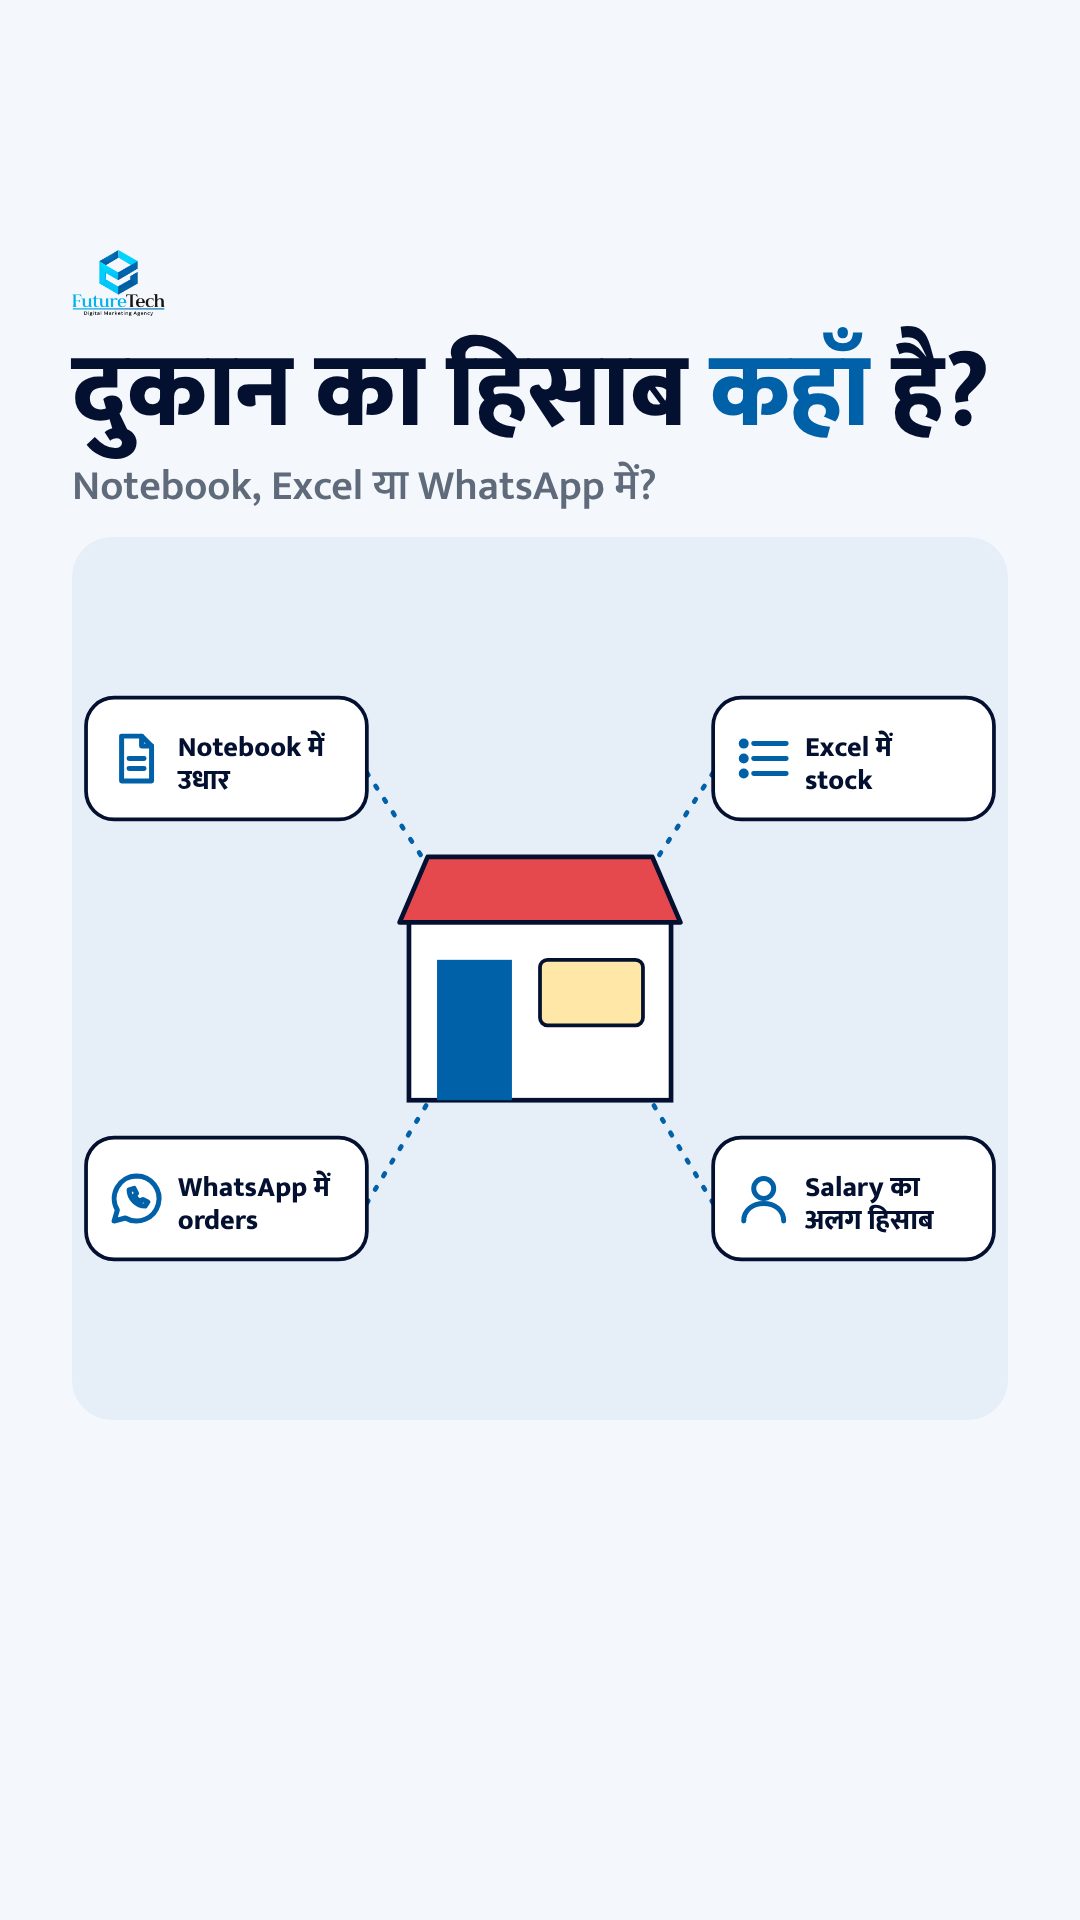
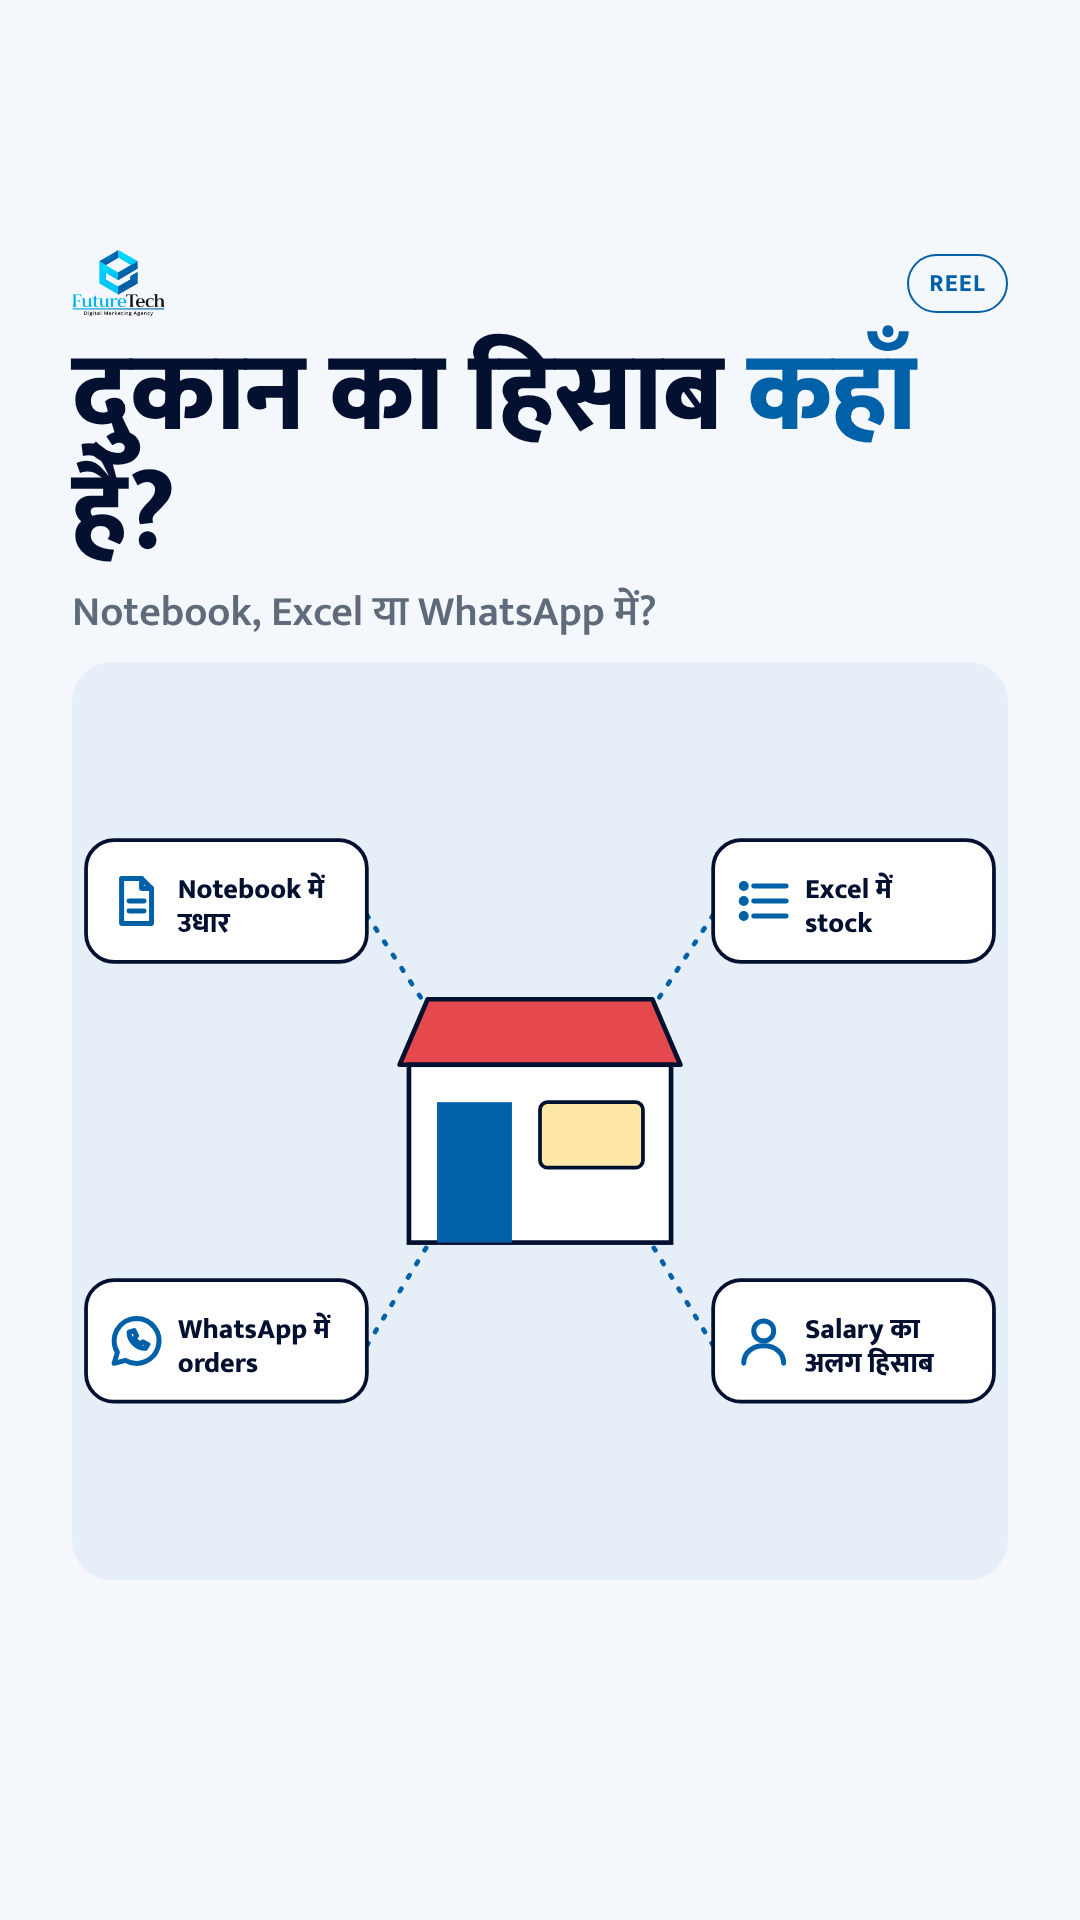
Reel 5: add app-screen demo scene, scene fades, longer end hold, CUTS override in reel builder
Claude-Session: https://claude.ai/code/session_016LhnTTDq2p1NVPthft6u7V

Changed region(s): [[0.0611, 0.125, 0.9472, 0.75]]

diff --git a/tools/engine/content-reels.js b/tools/engine/content-reels.js
@@ -34,6 +34,7 @@ module.exports = {
     { line: 'Orders और supplier की बातें WhatsApp में — चैट में दब जाती हैं।', slide: { chip: 'WhatsApp', h: 'Orders और supplier <span class="blue">चैट</span> में', art: A.phoneSide(A.chat([['in', 'Bhaiya 10 packet bhej do'], ['out', 'Ji kal tak'], ['in', 'Pichla payment kab dena hai?']]), [{ icon: 'search', t: 'चैट में ढूँढना' }, { icon: 'bell', t: 'Payment याद नहीं' }, { icon: 'clock', t: 'समय बर्बाद' }]) } },
     { line: 'किसका कितना लेना है, किसे कितना देना है — ढूँढने में समय जाता है।', slide: { chip: 'सवाल', h: 'ये सवाल <span class="blue">आसान</span> हैं?', art: A.scorecard(['किसका कितना लेना है?', 'किसे कितना देना है?', 'कौन सा stock कम है?', 'इस महीने की salary कितनी?'], { mark: '?' }) } },
     { line: 'ये सब एक जगह हो सकता है: उधार, stock, supplier payment और salary।', slide: { chip: 'एक जगह', h: 'ये सब <span class="blue">एक जगह</span>', art: A.hubRing('दुकान का', 'Manager', [{ icon: 'doc', l: 'उधार', l2: 'खाता' }, { icon: 'store', l: 'Stock और', l2: 'expiry' }, { icon: 'money', l: 'Supplier', l2: 'payment' }, { icon: 'user', l: 'Salary', l2: 'हिसाब' }, { icon: 'doc', l: 'Bill /', l2: 'Invoice' }, { icon: 'users', l: 'Customer', l2: 'list' }, { icon: 'bell', l: 'Payment', l2: 'reminder' }, { icon: 'trend', l: 'Reports' }]), raw: true } },
+    { line: 'देखिए... उधार, stock, supplier का payment और salary — सब एक ही screen पर। कौन कितना बाकी है, एक नज़र में।', slide: { chip: 'Demo', h: 'सब एक ही <span class="blue">screen</span> पर', art: A.phoneSide(`<div style="font-family:Mukta;font-weight:800;font-size:30px;color:#0060A8;margin-bottom:10px">दुकान Manager</div>${[['उधार बाकी','#FFE7A8'],['Stock कम','#BFE3F7'],['Supplier payment','#CFE7D8'],['Salary (इस महीने)','#F9D0CF']].map(([t,c])=>`<div style="display:flex;align-items:center;gap:12px;background:#F4F7FB;border-radius:14px;padding:12px 14px;margin-bottom:10px"><span style="width:38px;height:38px;border-radius:10px;background:${c};display:block"></span><span style="font-family:Mukta;font-weight:700;font-size:24px">${t}</span><span style="margin-left:auto;width:70px;height:14px;border-radius:7px;background:#DDE3EC;display:block"></span></div>`).join('')}<div style="margin-top:6px;background:#22C55E;color:#fff;font-weight:700;text-align:center;border-radius:30px;padding:10px;font-size:22px">WhatsApp reminder</div>`, [{ icon: 'doc', t: 'एक नज़र में बाकी' }, { icon: 'bell', t: 'Reminder अपने आप' }, { icon: 'trend', t: 'महीने की report' }]) } },
     { line: 'अपनी दुकान का हिसाब एक जगह लाना है? FutureTech को WhatsApp कीजिए।', end: true },
   ] },
   'reel-4': { code: 'IG-R04', ask: 'Namaste, mujhe ads ka sahi plan chahiye', file: 'Reel_Landing_Page_ya_WhatsApp', scenes: [

diff --git a/tools/engine/reel.js b/tools/engine/reel.js
@@ -23,13 +23,14 @@ const subPage = text => `<!doctype html><html><head><meta charset="utf-8">${L.FO
     const err = require('child_process').spawnSync('ffmpeg', ['-hide_banner', '-i', voice, '-af', 'silencedetect=n=-38dB:d=0.22', '-f', 'null', '-'], { encoding: 'utf8' }).stderr; while ((m = re.exec(err))) sil.push([+m[1], +m[2]]);
     const len = R.scenes.map(s => s.line.length); const sum = len.reduce((a, b) => a + b, 0); const used = new Set(); let acc = 0; const cuts = [];
     for (let i = 0; i < n - 1; i++) { acc += len[i]; const want = total * acc / sum; let best = -1; sil.forEach((g, k) => { if (used.has(k)) return; if (best < 0 || Math.abs((g[0] + g[1]) / 2 - want) < Math.abs((sil[best][0] + sil[best][1]) / 2 - want)) best = k; }); if (best >= 0) { used.add(best); cuts.push((sil[best][0] + sil[best][1]) / 2); } else cuts.push(want); }
-    cuts.sort((a, b) => a - b); const b = [0, ...cuts, total + 1.6]; dur = b.slice(1).map((x, i) => +(x - b[i]).toFixed(2));
+    if (process.env.CUTS) { cuts.length = 0; process.env.CUTS.split(',').map(Number).forEach(x => cuts.push(x)); }
+    cuts.sort((a, b) => a - b); const b = [0, ...cuts, total + 2.6]; dur = b.slice(1).map((x, i) => +(x - b[i]).toFixed(2));
   } else dur = R.scenes.map((s, i) => +Math.max(2.8, s.line.length / 11 + 0.9).toFixed(2));
   // 3) clips
   const FPS = 30; const clips = [];
   for (let i = 0; i < n; i++) {
     const d = dur[i], N = Math.ceil(d * FPS), clip = tmp + `c${i}.mp4`;
-    execFileSync('ffmpeg', ['-v', 'error', '-y', '-loop', '1', '-t', String(d), '-i', tmp + `s${i}.png`, '-loop', '1', '-t', String(d), '-i', tmp + `t${i}.png`, '-filter_complex', `[0:v]scale=2160:3840,zoompan=z='1+0.035*on/${N}':x='iw/2-(iw/zoom/2)':y='ih/2-(ih/zoom/2)':d=${N}:s=1080x1920:fps=${FPS},fade=t=in:st=0:d=0.25[a];[a][1:v]overlay=0:0:shortest=1,format=yuv420p[v]`, '-map', '[v]', '-r', String(FPS), '-c:v', 'libx264', '-preset', 'medium', '-crf', '18', '-t', String(d), clip]);
+    execFileSync('ffmpeg', ['-v', 'error', '-y', '-loop', '1', '-t', String(d), '-i', tmp + `s${i}.png`, '-loop', '1', '-t', String(d), '-i', tmp + `t${i}.png`, '-filter_complex', `[0:v]scale=2160:3840,zoompan=z='1+0.035*on/${N}':x='iw/2-(iw/zoom/2)':y='ih/2-(ih/zoom/2)':d=${N}:s=1080x1920:fps=${FPS},fade=t=in:st=0:d=0.25,fade=t=out:st=${(d-0.25).toFixed(2)}:d=0.25[a];[a][1:v]overlay=0:0:shortest=1,format=yuv420p[v]`, '-map', '[v]', '-r', String(FPS), '-c:v', 'libx264', '-preset', 'medium', '-crf', '18', '-t', String(d), clip]);
     clips.push(clip);
   }
   fs.writeFileSync(tmp + 'list.txt', clips.map(c => `file '${c}'`).join('\n'));
